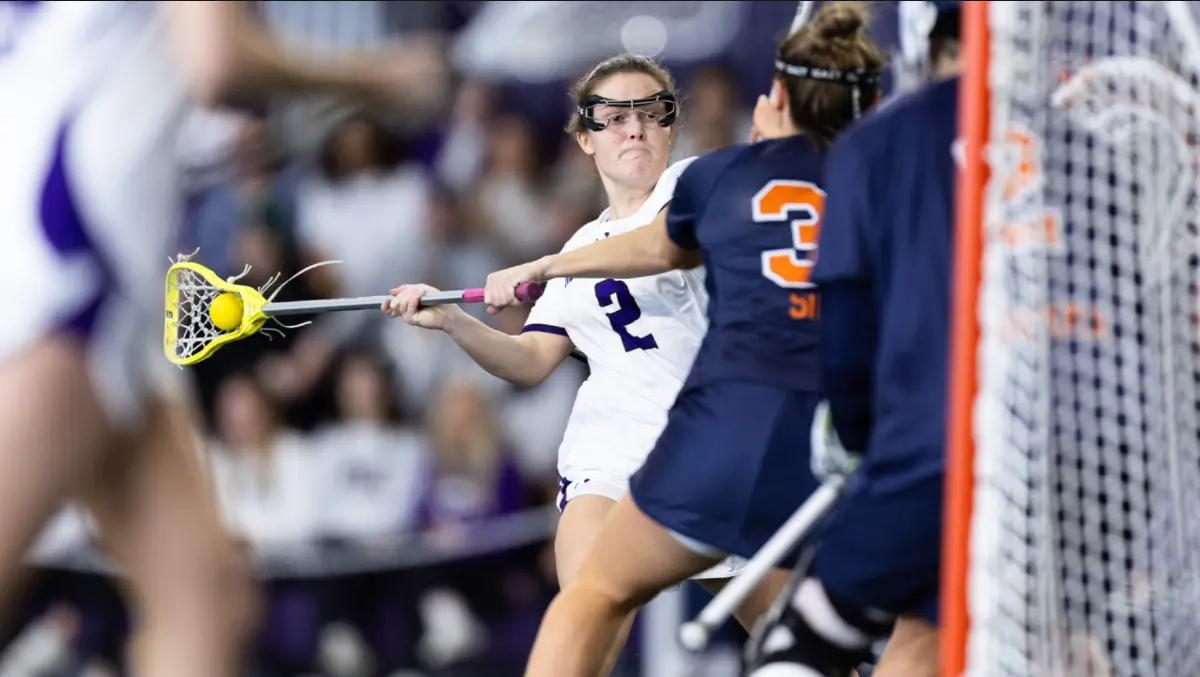
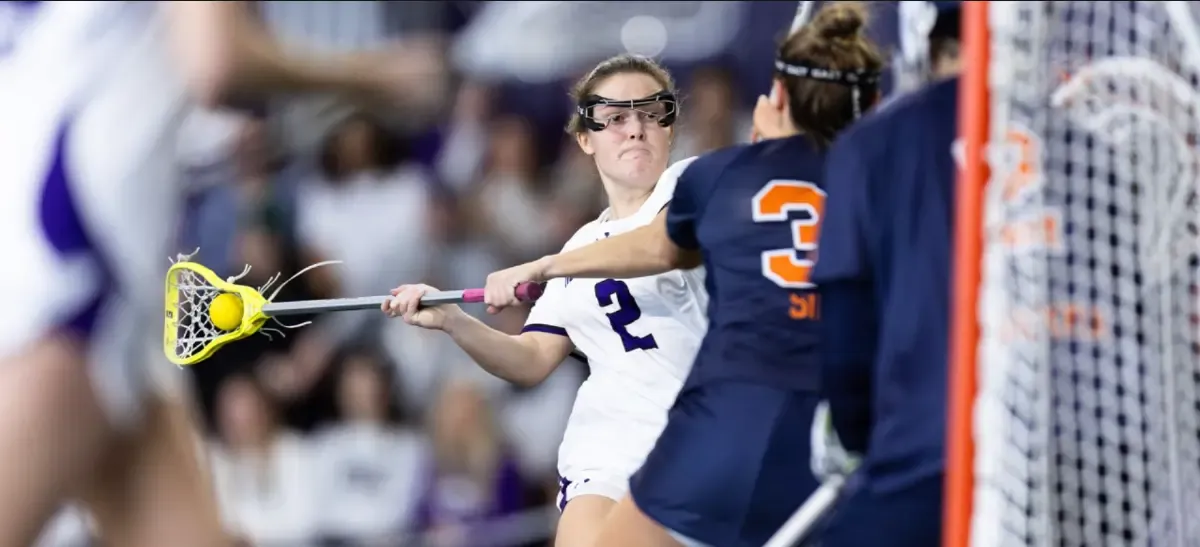
new

diff --git a/src/components/Gallery.tsx b/src/components/Gallery.tsx
@@ -13,7 +13,7 @@ export default function Gallery() {
         // Map backend data to match the static gallery format
         const dynamicImages = data.map((img: any) => ({
           id: img.id,
-          title: img.title || 'Gallery Image',
+          title: img.title || '',
           category: 'UPLOADED',
           url: img.base64Data
         }));
@@ -56,10 +56,11 @@ export default function Gallery() {
                   alt={item.title || 'Gallery Image'} 
                   className="w-full h-auto object-cover transition-all duration-700 group-hover:scale-105"
                 />
-                <div className="absolute inset-0 bg-gradient-to-t from-zinc-950 via-transparent to-transparent opacity-0 group-hover:opacity-100 transition-opacity duration-300 flex flex-col justify-end p-6">
-                  {item.category && <span className="text-accent text-xs uppercase tracking-wider font-semibold mb-1">{item.category}</span>}
-                  {item.title && <h3 className="text-white font-display text-xl font-bold uppercase">{item.title}</h3>}
-                </div>
+                {item.category === 'UPLOADED' && item.title && (
+                  <div className="absolute inset-0 bg-gradient-to-t from-zinc-950 via-transparent to-transparent opacity-0 group-hover:opacity-100 transition-opacity duration-300 flex flex-col justify-end p-6">
+                    <h3 className="text-white font-display text-xl font-bold uppercase">{item.title}</h3>
+                  </div>
+                )}
               </motion.div>
             ))}
           </div>

diff --git a/src/components/Events.tsx b/src/components/Events.tsx
@@ -72,11 +72,11 @@ export default function Events() {
             </p>
           </motion.div>
         ) : (
-          <div className="overflow-hidden relative">
+          <div className="overflow-x-auto lg:overflow-hidden relative py-2 no-scrollbar">
             <div 
-              className={`flex gap-8 w-max ${isScrolling ? 'animate-marquee' : ''} hover:pause-animation`}
+              className={`flex gap-8 w-max ${events.length > 3 && isScrolling ? 'animate-marquee' : ''} hover:pause-animation lg:mx-auto`}
             >
-              {[...events, ...events].map((event, index) => (
+              {(events.length > 3 ? [...events, ...events] : events).map((event, index) => (
                 <motion.article
                   key={`${event.id || index}-${index}`}
                   initial={{ opacity: 0, y: 50 }}

diff --git a/src/data/career.ts b/src/data/career.ts
@@ -18,6 +18,15 @@ export const career = [
     position: "object-top"
   },
   {
+    year: "2022",
+    title: "Breakout Junior Season",
+    team: "Northwestern Wildcats",
+    competition: "NCAA",
+    description: "Had a breakout junior season with 45 goals, 37 assists, and 82 points. Led the team in assists, ranked 3rd in the Big Ten, and earned First Team All-Big Ten honors.",
+    image: "/gal/wa_img_19.webp",
+    position: "object-top"
+  },
+  {
     year: "2023",
     title: "National Champion",
     team: "Northwestern Wildcats",

diff --git a/src/index.css b/src/index.css
@@ -28,4 +28,11 @@
   .pause-animation {
     animation-play-state: paused;
   }
+  .no-scrollbar::-webkit-scrollbar {
+    display: none;
+  }
+  .no-scrollbar {
+    -ms-overflow-style: none;
+    scrollbar-width: none;
+  }
 }
